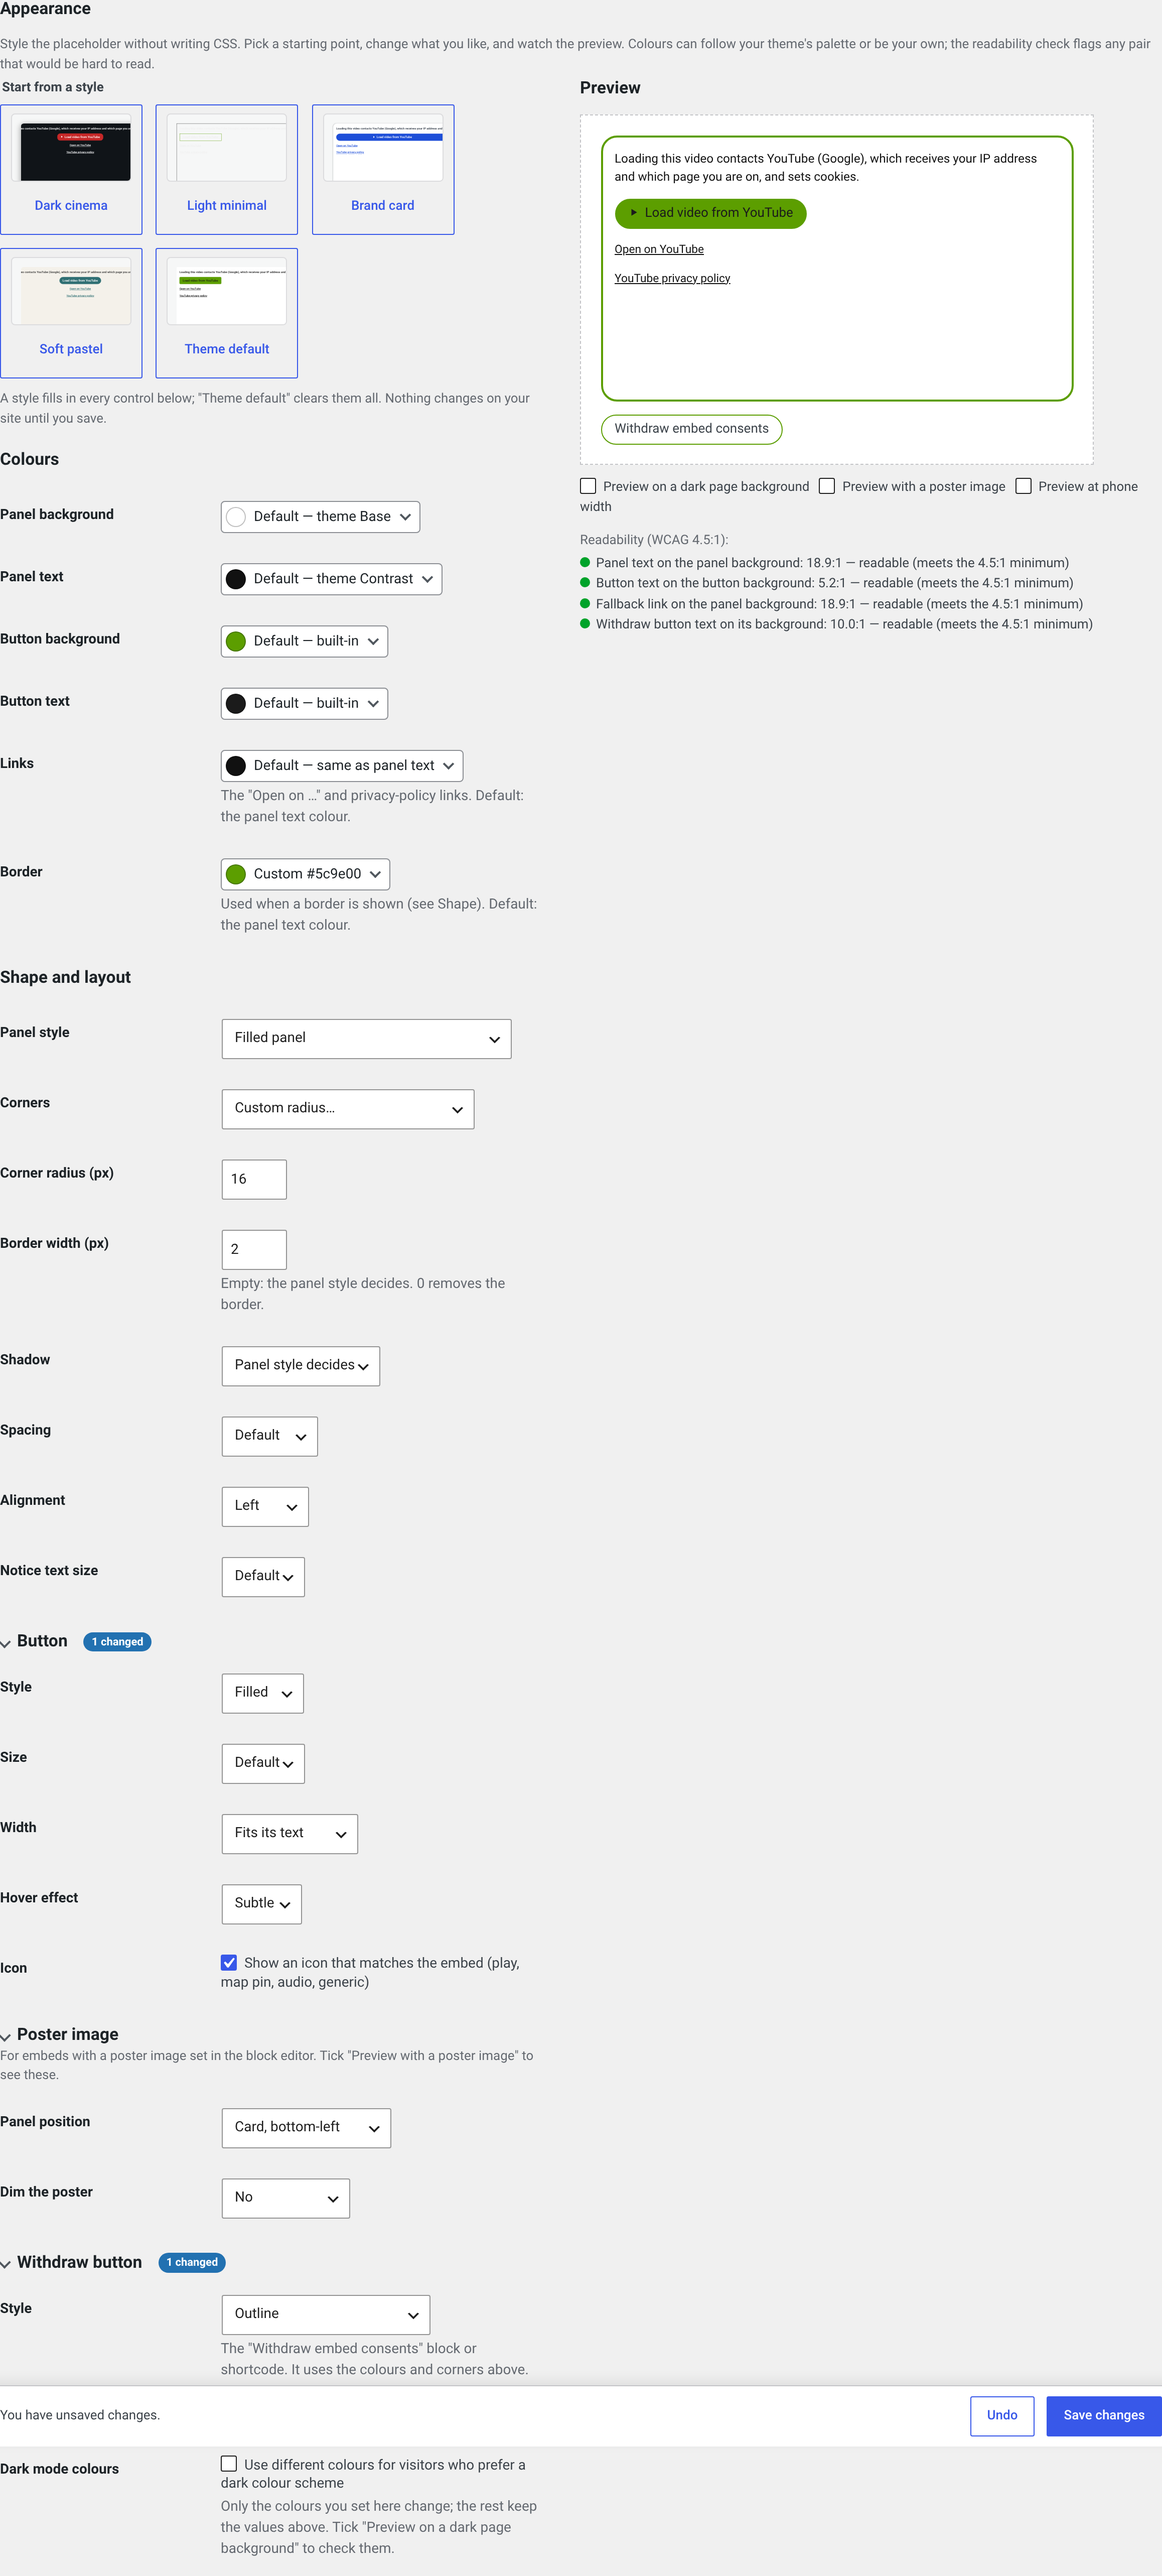
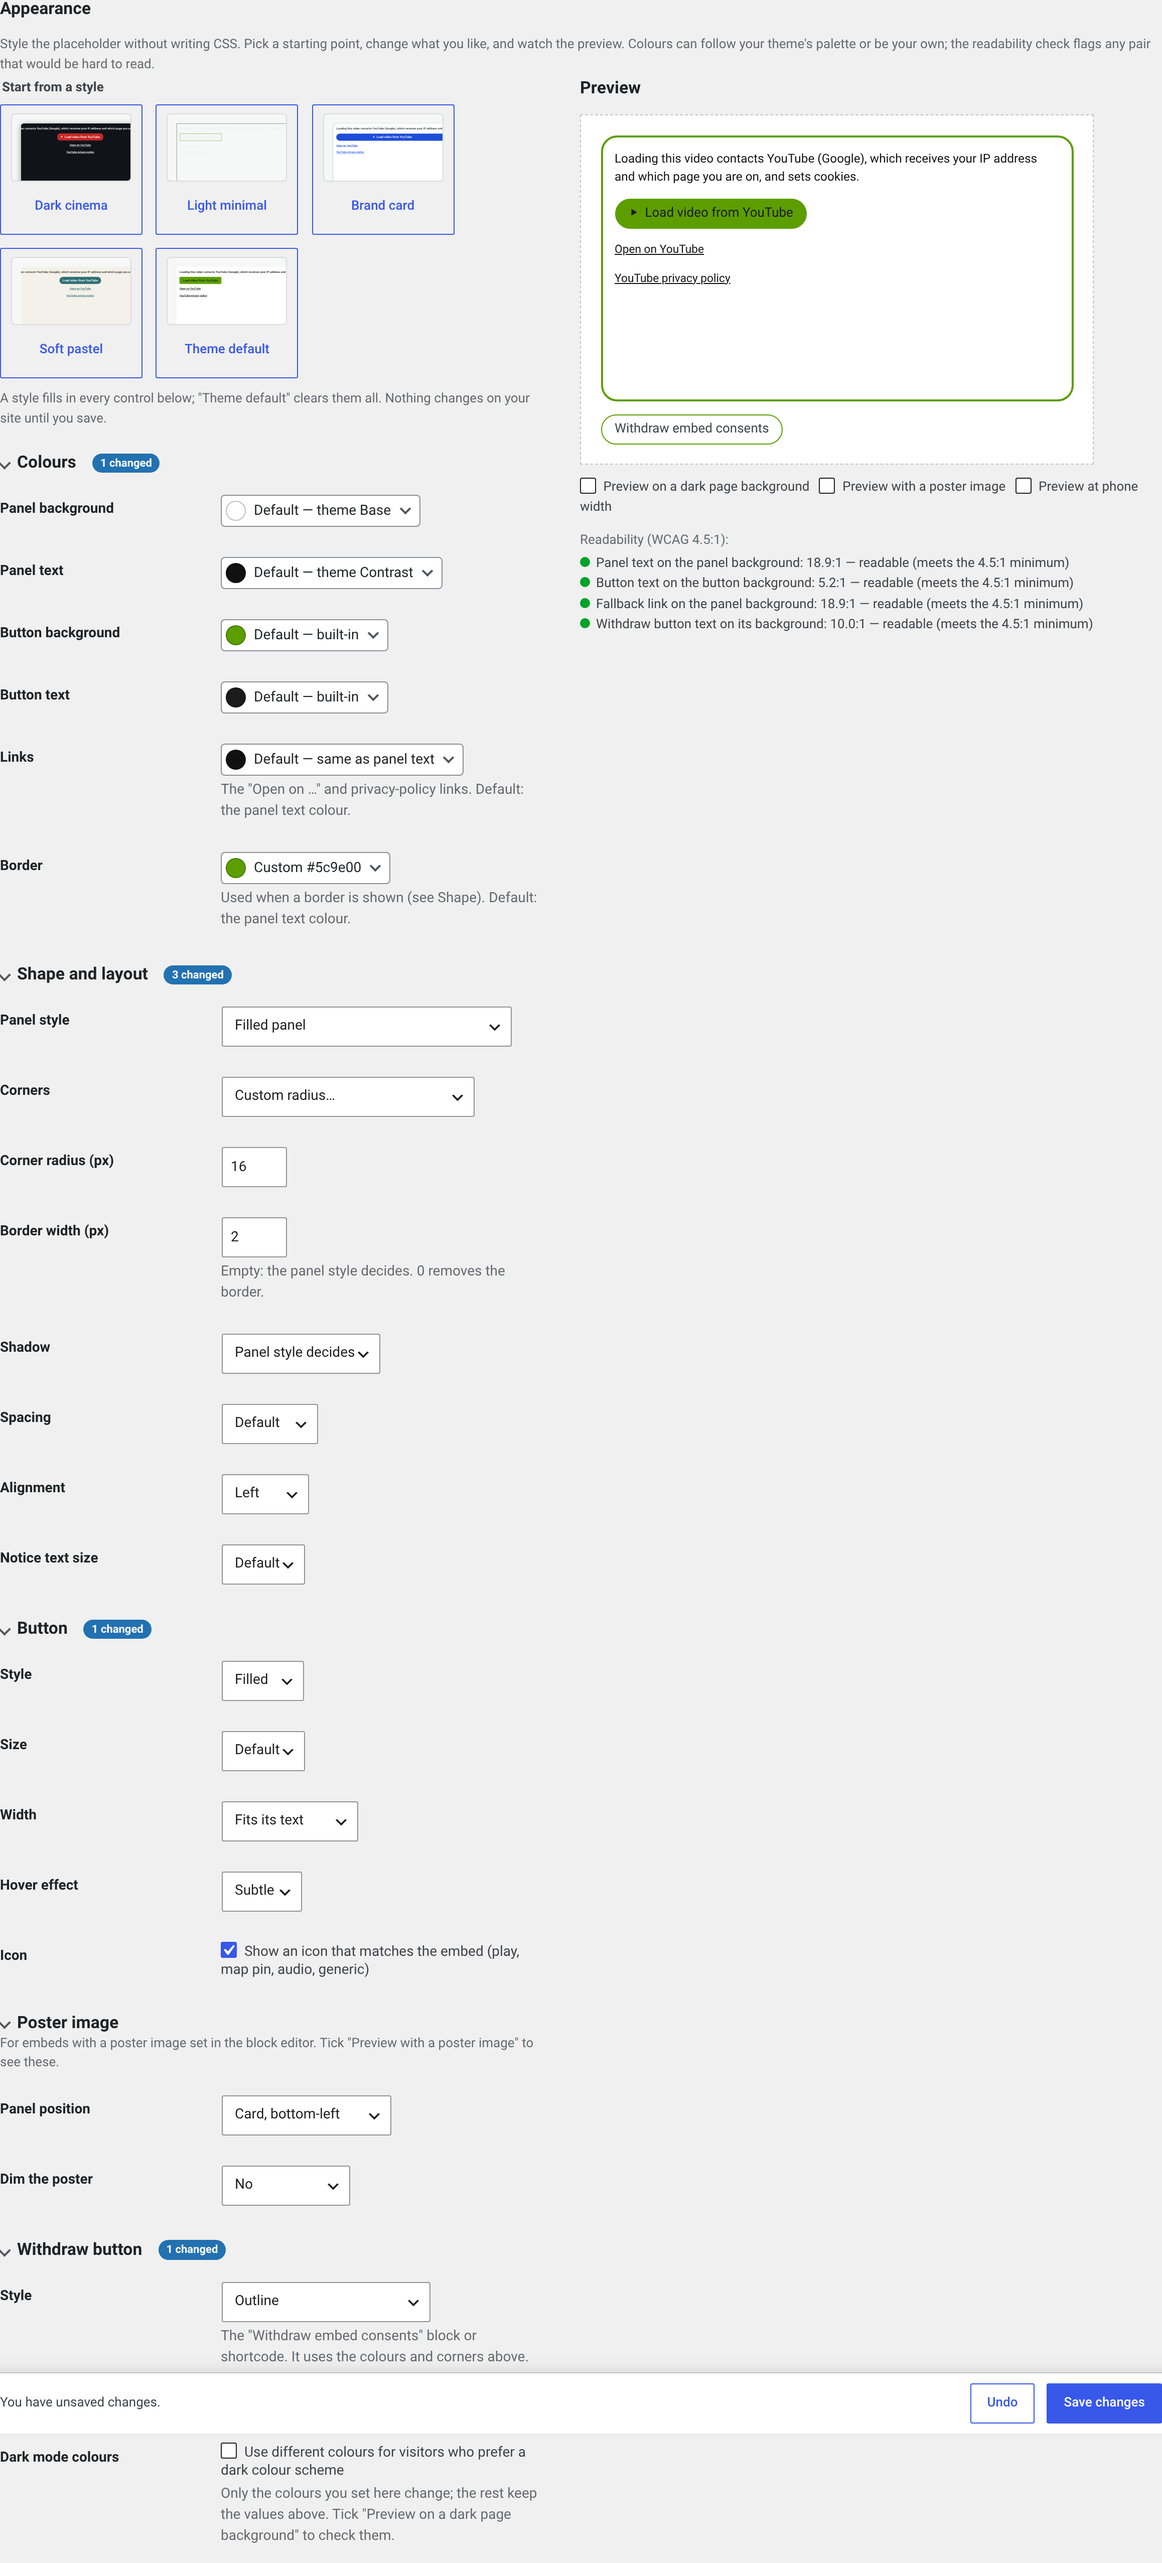
fix: unsaved bar shown on every load; all Appearance sections collapsible
The "You have unsaved changes" bar appeared on every visit, saved or not.
Two causes, both fixed: the bar's own `display: flex` rule beat its
`hidden` attribute (author display wins over the UA [hidden] rule — it
now has an explicit `[hidden] { display: none }`), and the dirty check
compared against a baseline taken before the colour pickers had rewritten
their fields. "Unsaved" now means the owner interacted (pointer/keyboard
in the form, or a bulk action) AND the serialised form differs from a
baseline taken after the pickers settle. The WP admin test pins the bar
hidden on an untouched load.

Consistency (Simon): every section is now the same collapsible
container. Colours and Shape and layout start open; Button, Poster image,
Withdraw button and Dark mode open only where something was changed.

283 unit, 48 E2E, 16/16 WP (fresh boot), PHPCS clean, zip 73 files.

Claude-Session: https://claude.ai/code/session_01Ep75XtCGGDUw7TLjyi9HxM

diff --git a/assets/js/admin-appearance.js b/assets/js/admin-appearance.js
@@ -808,6 +808,12 @@
 		var undoSnapshot = null;
 		var undoTimer = null;
 		var submitting = false;
+		// "Unsaved" means the OWNER changed something: the colour pickers
+		// rewrite their fields on their own after load, and programmatic
+		// syncs fire change events too — neither counts. A real interaction
+		// (pointer/keyboard in the form, or a bulk action) arms the check;
+		// the serialised form vs the settled baseline is the arbiter.
+		var interacted = false;
 
 		function snapshot() {
 			return form ? $( form ).serialize() : '';
@@ -854,7 +860,7 @@
 			if ( ! unsavedBar ) {
 				return;
 			}
-			var dirty = snapshot() !== baseline;
+			var dirty = interacted && '' !== baseline && snapshot() !== baseline;
 			unsavedBar.hidden = ! dirty && ! undoSnapshot;
 			document.body.classList.toggle( 'cg-has-unsaved', dirty );
 			updateBadges();
@@ -888,6 +894,7 @@
 		}
 
 		function bulkAction( run, message ) {
+			interacted = true;
 			undoSnapshot = snapshot();
 			run();
 			notify( message, true );
@@ -1109,6 +1116,9 @@
 			} );
 		}
 		if ( form ) {
+			$( form ).on( 'mousedown keydown touchstart', function () {
+				interacted = true;
+			} );
 			$( form ).on( 'change input', function () {
 				updateDirty();
 			} );
@@ -1116,7 +1126,7 @@
 				submitting = true;
 			} );
 			window.addEventListener( 'beforeunload', function ( event ) {
-				if ( ! submitting && snapshot() !== baseline ) {
+				if ( ! submitting && interacted && '' !== baseline && snapshot() !== baseline ) {
 					event.preventDefault();
 					event.returnValue = i18n.leaveWarning || '';
 				}
@@ -1211,7 +1221,12 @@
 			var defaultText = unsavedBar.querySelector( '.cg-unsaved__text' );
 			unsavedBar.setAttribute( 'data-cg-default-text', defaultText ? defaultText.textContent : '' );
 		}
-		baseline = snapshot();
+		// Baseline once the pickers have settled (Iris normalises its fields
+		// on a timer); until then nothing can read as dirty.
+		window.setTimeout( function () {
+			baseline = snapshot();
+			updateDirty();
+		}, 250 );
 		updateBadges();
 	} );
 }( window.jQuery ) );

diff --git a/tests/WP/wordpress.spec.js b/tests/WP/wordpress.spec.js
@@ -235,15 +235,22 @@ test( 'admin: appearance controls are novice-usable — pickers, live preview, c
 	// The Appearance panel lives behind its tab.
 	await page.click( '#cg-tabbtn-appearance' );
 
-	// Advanced sections start collapsed on an untouched site (progressive
-	// disclosure); open them all so every control below is reachable.
+	// Regression: nothing has been touched, so the unsaved bar must not
+	// show — the colour pickers rewrite their fields after load and that
+	// once counted as a change.
+	await page.waitForTimeout( 600 );
+	await expect( page.locator( '#cg-unsaved' ) ).toBeHidden();
+
+	// Every section is a collapsible container: Colours and Shape start
+	// open, the advanced four collapsed on an untouched site. Open those
+	// so every control below is reachable.
 	const sections = page.locator( '#cg-tab-appearance details.cg-section' );
-	await expect( sections ).toHaveCount( 4 );
-	await expect( page.locator( '#cg-tab-appearance details.cg-section[open]' ) ).toHaveCount( 0 );
-	for ( let i = 0; i < 4; i++ ) {
+	await expect( sections ).toHaveCount( 6 );
+	await expect( page.locator( '#cg-tab-appearance details.cg-section[open]' ) ).toHaveCount( 2 );
+	for ( let i = 2; i < 6; i++ ) {
 		await sections.nth( i ).locator( ':scope > summary' ).click();
 	}
-	await expect( page.locator( '#cg-tab-appearance details.cg-section[open]' ) ).toHaveCount( 4 );
+	await expect( page.locator( '#cg-tab-appearance details.cg-section[open]' ) ).toHaveCount( 6 );
 
 	// The live preview is the real placeholder markup, and the contrast
 	// report measured every colour pair.

diff --git a/assets/css/admin-appearance.css b/assets/css/admin-appearance.css
@@ -393,6 +393,10 @@
 	box-shadow: 0 -4px 12px rgba( 0, 0, 0, 0.08 );
 }
 
+.cg-unsaved[hidden] {
+	display: none; /* The author display above would otherwise beat the hidden attribute. */
+}
+
 .cg-unsaved__text {
 	flex: 1 1 auto;
 }

diff --git a/src/Admin/SettingsPage.php b/src/Admin/SettingsPage.php
@@ -642,7 +642,8 @@ final class SettingsPage {
 					<p class="description"><?php esc_html_e( 'A style fills in every control below; "Theme default" clears them all. Nothing changes on your site until you save.', 'calucon-third-party-embed-gate' ); ?></p>
 				</fieldset>
 
-				<h3><?php esc_html_e( 'Colours', 'calucon-third-party-embed-gate' ); ?></h3>
+				<details class="cg-section" open>
+					<summary><h3><?php esc_html_e( 'Colours', 'calucon-third-party-embed-gate' ); ?></h3></summary>
 				<table class="form-table" role="presentation">
 					<?php
 					$this->color_row( 'bg', __( 'Panel background', 'calucon-third-party-embed-gate' ), $appearance );
@@ -653,8 +654,10 @@ final class SettingsPage {
 					$this->color_row( 'border_color', __( 'Border', 'calucon-third-party-embed-gate' ), $appearance, __( 'Used when a border is shown (see Shape). Default: the panel text colour.', 'calucon-third-party-embed-gate' ) );
 					?>
 				</table>
+				</details>
 
-				<h3><?php esc_html_e( 'Shape and layout', 'calucon-third-party-embed-gate' ); ?></h3>
+				<details class="cg-section" open>
+					<summary><h3><?php esc_html_e( 'Shape and layout', 'calucon-third-party-embed-gate' ); ?></h3></summary>
 				<table class="form-table" role="presentation">
 					<?php
 					$this->select_row(
@@ -739,6 +742,7 @@ final class SettingsPage {
 					);
 					?>
 				</table>
+				</details>
 
 				<details class="cg-section" <?php echo $this->section_touched( $appearance, array( 'button_style', 'button_size', 'button_width', 'hover', 'play_icon' ) ) ? 'open' : ''; ?>>
 					<summary><h3><?php esc_html_e( 'Button', 'calucon-third-party-embed-gate' ); ?></h3></summary>
